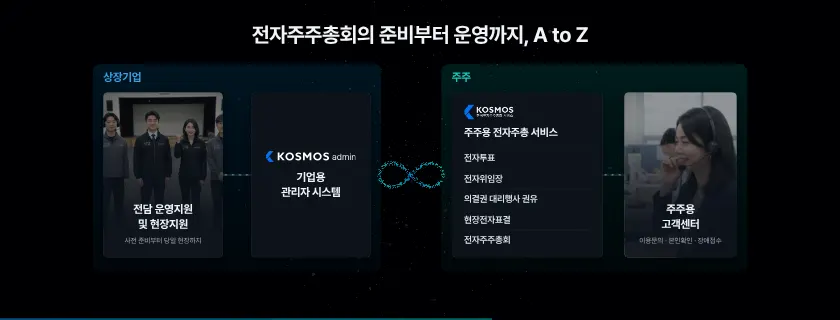
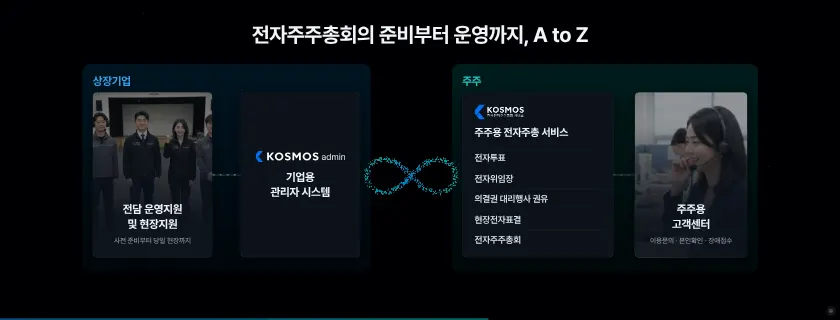
session4: K21 상장기업 · 주주 묶음 사이 넓힘 · ∞ 키움 · 묶음 제목 살짝 아래로, K22s 도식 40px 아래로, K24a 개인 · 기관 주주 볼드 · 점 목록 58 → 52px
Claude-Session: https://claude.ai/code/session_01Mn7NmyW5iujmmHnaRBFKBZ

diff --git a/sw.js b/sw.js
@@ -1,5 +1,5 @@
 /* 오프라인 캐시 — 온라인 주소(https)로 한 번 열면 모든 파일을 저장해 두고, 통신이 끊겨도 저장본으로 동작합니다. */
-const V='seminar-screen-11262013';
+const V='seminar-screen-11262015';
 const FILES=["./","assets/KakaoBigSans-Bold.woff2","assets/KakaoBigSans-Regular.woff2","assets/KakaoSmallSans-Bold.woff2","assets/KakaoSmallSans-Light.woff2","assets/KakaoSmallSans-Regular.woff2","assets/OrbitControls.js","assets/PretendardVariable.woff2","assets/attendees.js","assets/blue-bloom.html","assets/cong1.webp","assets/cong2.webp","assets/ds-bg.html","assets/four-states.html","assets/intro.mp4","assets/irk-white.svg","assets/irk-wordmark-white.svg","assets/kism-intro.mp4","assets/kism-white.svg","assets/ksmp-white.svg","assets/panel.js","assets/qa-online.js","assets/s2/img1.png","assets/s2/img2.png","assets/s2/img3.png","assets/s2/img4.png","assets/s4/aws.webp","assets/s4/callcenter.webp","assets/s4/chair-1.webp","assets/s4/chair-2.webp","assets/s4/chair-3.webp","assets/s4/conexus-word.webp","assets/s4/ctl-1.webp","assets/s4/cx-1.webp","assets/s4/cx-2.webp","assets/s4/cx-3.webp","assets/s4/cx-flow.mp4","assets/s4/cx-pop1.webp","assets/s4/cx-pop2.webp","assets/s4/cx-vote.mp4","assets/s4/cx-vote.webp","assets/s4/cxs-1.webp","assets/s4/insurance.webp","assets/s4/isms-t.webp","assets/s4/isms.webp","assets/s4/ismsp-t.webp","assets/s4/ismsp.webp","assets/s4/kosmos-white.png","assets/s4/ks-1.webp","assets/s4/ks-2.webp","assets/s4/ks-3.webp","assets/s4/ks-4.webp","assets/s4/ks-5.webp","assets/s4/ks-video.webp","assets/s4/live-1.webp","assets/s4/live-2.webp","assets/s4/live-3.webp","assets/s4/live-4.webp","assets/s4/live-5.webp","assets/s4/live-6.webp","assets/s4/live-7.webp","assets/s4/live-8.webp","assets/s4/logos.webp","assets/s4/ocr-1.webp","assets/s4/ocr-2.webp","assets/s4/ocr-3.webp","assets/s4/ocr-4.webp","assets/s4/ocr-5.webp","assets/s4/on-1.png","assets/s4/on-2.webp","assets/s4/on-3.webp","assets/s4/on-4.png","assets/s4/on-5.webp","assets/s4/onboard-1.webp","assets/s4/onboard-2.webp","assets/s4/privacy.webp","assets/s4/proxymity.svg","assets/s4/rehearsal.webp","assets/s4/streaming-korea.webp","assets/s4/tab-1.webp","assets/s4/tab-2.webp","assets/s4/team.webp","assets/sched.js","assets/screen-title-2.svg","assets/screen-title-b-text.svg","assets/screen-title-b.svg","assets/seat-banners.js","assets/seat-fascia.js","assets/seat-screen.js","assets/seatmap.js","assets/service-intro.mp4","assets/speaker-scott.webp","assets/speaker1-1.webp","assets/speaker2.webp","assets/speaker3-1.webp","assets/supabase.min.js","assets/three.min.js","assets/title-logos.svg","control.html","index-fs.html","index.html","kism.html","lobby/cuts.html","lobby/index.html","mc.html","session2.html","session4.html","sw.js","tools/s2_build.py","tools/s2_shell.html","assets/s3/p01.webp","assets/s3/p02.webp","assets/s3/p03.webp","assets/s3/p04.webp","assets/s3/p05.webp","assets/s3/p06.webp","assets/s3/p07.webp","assets/s3/p08.webp","assets/s3/p09.webp","assets/s3/p10.webp","assets/s3/p11.webp","assets/s3/p12.webp","assets/s3/p13.webp","assets/s3/p14.webp","assets/s3/p15.webp","assets/s3/p16.webp","assets/s3/p17.webp","assets/s3/p18.webp","assets/s3/p19.webp","assets/s3/p20.webp","assets/s3/p21.webp","assets/s3/p22.webp","assets/s3/p23.webp","assets/kism/photo-main.webp","assets/kism/photo-2.webp","assets/kism/photo-3.webp","assets/kism/photo-4.webp","assets/sound/countdown-tick.mp3","assets/sound/sfx-s3-part.mp3","assets/sound/sfx-s4-reveal.mp3","assets/sound/sfx-s5-proxymity.mp3","assets/sound/sfx-s6-chime.mp3","assets/sound/sfx-s7-close.mp3","assets/sound/opening-hit.mp3","assets/s4/kosmos-color.svg","assets/s4/ke-logo.png","assets/s4/ke-live.mp4","assets/kism/kwon-talk.mp4","assets/kism/manual-book.webp","kism-open.html","kism_16x9.html","led.html","assets/s4/cx-ops.mp4","assets/s4/cx-ops.webp","assets/s4/agent-app.mp4","assets/s4/agent-app.webp","assets/s4/k24b-bg.webp","session0.html","assets/kism/photo-main-cut.webp","assets/s4/cx-chair.mp4","assets/s4/cx-chair.webp","assets/s4/cx-test.mp4","assets/s4/cx-test.webp","assets/s4/onboard-mgr.webp","assets/s4/proxymity-logo.png","assets/s4/k21-bg.webp","assets/s4/kosmos-admin-white.svg","assets/kism-intro-16x9.mp4","assets/seat-guide.html","assets/s4/app-icon-agent.svg","assets/ds-main.mp4","assets/s4/k2-agency.webp","assets/s4/k2-support.webp","assets/s4/thumbs/K00.webp","assets/s4/thumbs/K01.webp","assets/s4/thumbs/K02.webp","assets/s4/thumbs/K03.webp","assets/s4/thumbs/K04.webp","assets/s4/thumbs/K05.webp","assets/s4/thumbs/K06.webp","assets/s4/thumbs/K07.webp","assets/s4/thumbs/K08.webp","assets/s4/thumbs/K09.webp","assets/s4/thumbs/K10.webp","assets/s4/thumbs/K11.webp","assets/s4/thumbs/K12.webp","assets/s4/thumbs/K13.webp","assets/s4/thumbs/K14.webp","assets/s4/thumbs/K15.webp","assets/s4/thumbs/K16.webp","assets/s4/thumbs/K17.webp","assets/s4/thumbs/K18a.webp","assets/s4/thumbs/K18b.webp","assets/s4/thumbs/K18c.webp","assets/s4/thumbs/K19.webp","assets/s4/thumbs/K19b.webp","assets/s4/thumbs/K20.webp","assets/s4/thumbs/K21.webp","assets/s4/thumbs/K21b.webp","assets/s4/thumbs/K22s.webp","assets/s4/thumbs/K23.webp","assets/s4/thumbs/K23b.webp","assets/s4/thumbs/K24a.webp","assets/s4/thumbs/K24b.webp","assets/s4/thumbs/K24c.webp","assets/s4/thumbs/K25.webp","assets/s4/thumbs/K25b.webp","assets/s4/thumbs/K26.webp","assets/s4/thumbs/K27.webp","assets/s4/thumbs/K28a.webp","assets/s4/thumbs/K28b.webp","assets/s4/thumbs/K28c.webp","assets/s4/thumbs/K28d.webp","assets/s4/thumbs/K29.webp","assets/s4/thumbs/K30.webp","assets/s4/thumbs/K09b.webp","assets/s4/thumbs/K28e.webp"];
 self.addEventListener('install',e=>{e.waitUntil(caches.open(V).then(c=>c.addAll(FILES)).then(()=>self.skipWaiting()));});
 self.addEventListener('activate',e=>{e.waitUntil(caches.keys().then(ks=>Promise.all(ks.filter(k=>k!==V).map(k=>caches.delete(k)))).then(()=>self.clients.claim()));});

diff --git a/session4.html b/session4.html
@@ -1701,6 +1701,12 @@ body:not(.idle) #sgb{opacity:.9}body.grid #sgb{opacity:0;pointer-events:none}
 #K11 .lg{top:540px!important;justify-content:flex-start!important}
 #K11 .full,#K11 .tri{top:-163px}
 #K15 .col:not(.hl){padding-top:100px}#K15 .col.hl{padding-top:200px}  /* 11/26 20:11 박스 안 글자 위로(박스 그대로) */
+/* 11/26 20:13 K21: 상장기업 · 주주 묶음 사이 넓힘(각 60px 바깥으로), ∞ 키움, 묶음 제목 살짝 아래로 */
+#K21 .ga,#K21 .kL{translate:-60px 0}#K21 .gb,#K21 .kR{translate:60px 0}
+#K21 .k21inf{left:1770px!important;top:690px!important;width:560px!important;height:532px!important}
+#K21 .gp p{top:66px}
+#K22s .zw{translate:0 40px}  /* 11/26 20:14 도식 전체 살짝 아래로 */
+#K24a .k24g .grp{font-weight:700}#K24a .k24g .grp small{font-weight:400}#K24a .k24g .lst li{font-size:52px}  /* 11/26 20:14 개인 · 기관 주주 볼드, 점 목록 58 → 52px */
 </style></head>
 <body>
 <div class="stage" id="stage">
@@ -1972,12 +1978,12 @@ body:not(.idle) #sgb{opacity:.9}body.grid #sgb{opacity:0;pointer-events:none}
  <h2 class="k21t"><span>전자주주총회의 준비부터 운영까지, <em>A to Z</em></span></h2>
  <div class="gp ga" style="left:240px;top:320px;width:1640px;height:1180px"><p>상장기업</p></div>
  <div class="gp gb" style="left:2220px;top:320px;width:1740px;height:1180px"><p>주주</p></div>
- <div class="cd pn ph" style="left:300px;top:480px;width:680px;height:940px;--dx:-700px;--dy:-500px;--r:-10deg;--d:2.0s"><i style="background-image:url(assets/s4/k2-agency.webp);background-position:50% 20%"></i><b>전담 운영지원<br>및 현장지원</b><small>사전 준비부터 당일 현장까지</small></div>
- <div class="cd pn" style="left:1140px;top:480px;width:680px;height:940px;--dx:-200px;--dy:800px;--r:8deg;--d:2.08s"><img class="lg" src="assets/s4/kosmos-admin-white.svg" alt="KOSMOS admin"><b>기업용<br>관리자 시스템</b></div>
- <div class="cd sh" style="left:2280px;top:480px;width:860px;height:940px;--dx:-500px;--dy:-700px;--r:-10deg;--d:2.15s"><img class="lg" src="assets/s4/kosmos-white.png" alt="KOSMOS"><b>주주용 전자주총 서비스</b><ul><li>전자투표</li><li>전자위임장</li><li>의결권 대리행사 권유</li><li>현장전자표결</li><li>전자주주총회</li></ul></div>
- <div class="cd pn pt ph" style="left:3260px;top:480px;width:640px;height:940px;--dx:700px;--dy:-400px;--r:10deg;--d:2.5s"><i style="background-image:url(assets/s4/k2-support.webp);background-size:auto 128%;background-position:74% 42%"></i><b>주주용<br>고객센터</b><small>이용문의 · 본인확인 · 장애접수</small></div>
+ <div class="cd pn ph kL" style="left:300px;top:480px;width:680px;height:940px;--dx:-700px;--dy:-500px;--r:-10deg;--d:2.0s"><i style="background-image:url(assets/s4/k2-agency.webp);background-position:50% 20%"></i><b>전담 운영지원<br>및 현장지원</b><small>사전 준비부터 당일 현장까지</small></div>
+ <div class="cd pn kL" style="left:1140px;top:480px;width:680px;height:940px;--dx:-200px;--dy:800px;--r:8deg;--d:2.08s"><img class="lg" src="assets/s4/kosmos-admin-white.svg" alt="KOSMOS admin"><b>기업용<br>관리자 시스템</b></div>
+ <div class="cd sh kR" style="left:2280px;top:480px;width:860px;height:940px;--dx:-500px;--dy:-700px;--r:-10deg;--d:2.15s"><img class="lg" src="assets/s4/kosmos-white.png" alt="KOSMOS"><b>주주용 전자주총 서비스</b><ul><li>전자투표</li><li>전자위임장</li><li>의결권 대리행사 권유</li><li>현장전자표결</li><li>전자주주총회</li></ul></div>
+ <div class="cd pn pt ph kR" style="left:3260px;top:480px;width:640px;height:940px;--dx:700px;--dy:-400px;--r:10deg;--d:2.5s"><i style="background-image:url(assets/s4/k2-support.webp);background-size:auto 128%;background-position:74% 42%"></i><b>주주용<br>고객센터</b><small>이용문의 · 본인확인 · 장애접수</small></div>
  <canvas class="viz k21inf" data-viz="inf" style="left:1850px;top:760px;width:400px;height:380px" width="800" height="760"></canvas>
- <svg class="k21l" viewBox="0 0 4200 1600" width="4200" height="1600"><path class="b" pathLength="1" d="M980 950H1140" style="--d:3.10s"/><path class="m" d="M980 950H1140" style="--d:3.10s"/><path class="b" pathLength="1" d="M3140 950H3260" style="--d:3.2s"/><path class="m" d="M3140 950H3260" style="--d:3.2s"/></svg>
+ <svg class="k21l" viewBox="0 0 4200 1600" width="4200" height="1600"><path class="b kL" pathLength="1" d="M980 950H1140" style="--d:3.10s"/><path class="m kL" d="M980 950H1140" style="--d:3.10s"/><path class="b kR" pathLength="1" d="M3140 950H3260" style="--d:3.2s"/><path class="m kR" d="M3140 950H3260" style="--d:3.2s"/></svg>
 </section>
 
 <section class="s ch sec fl" id="K21b" data-t="장 표지 · 시스템" data-dim=".3">
